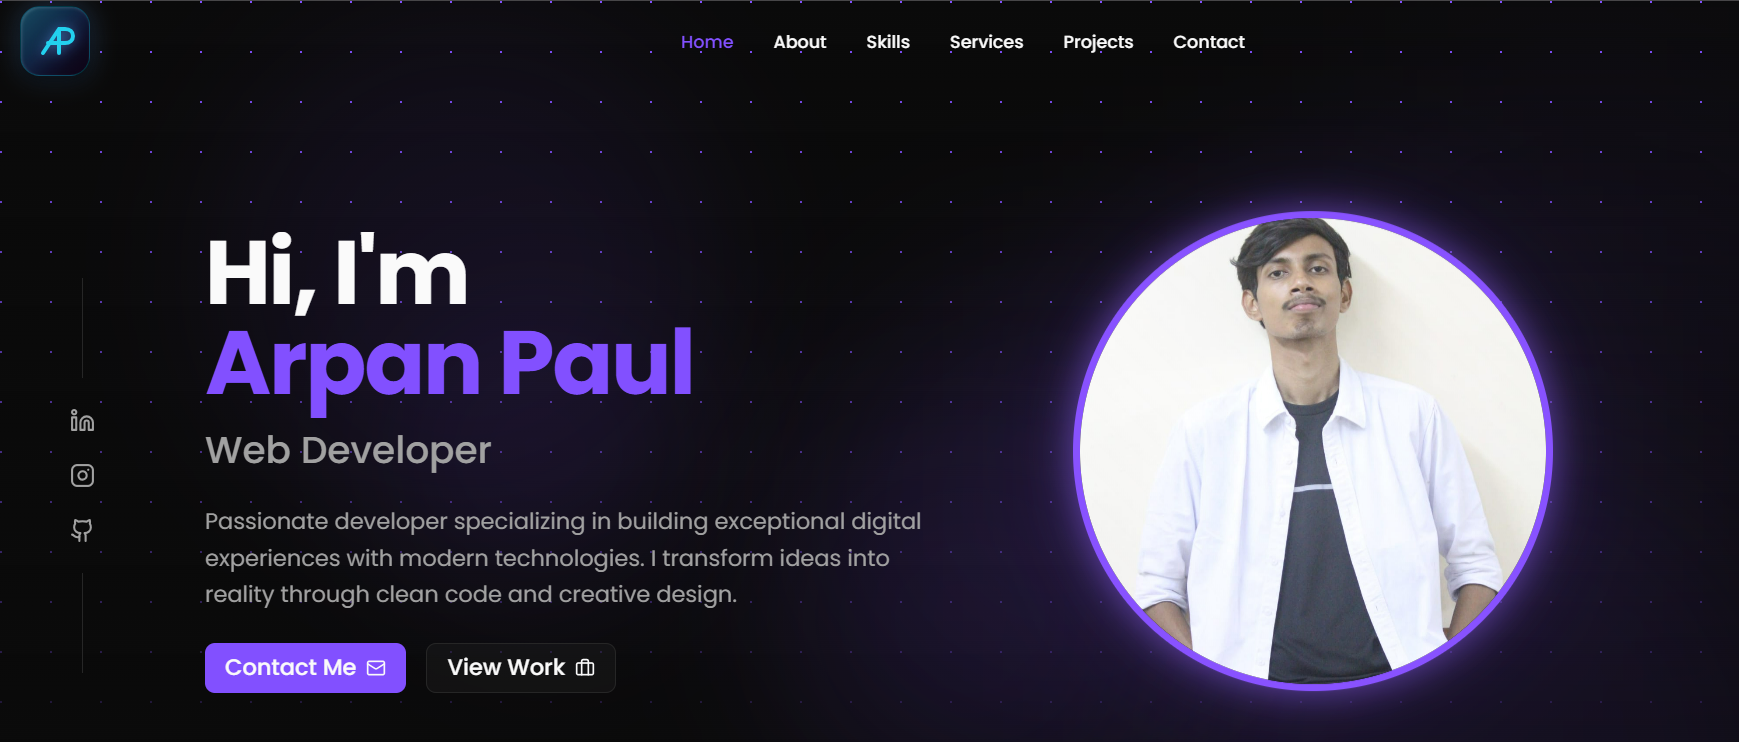
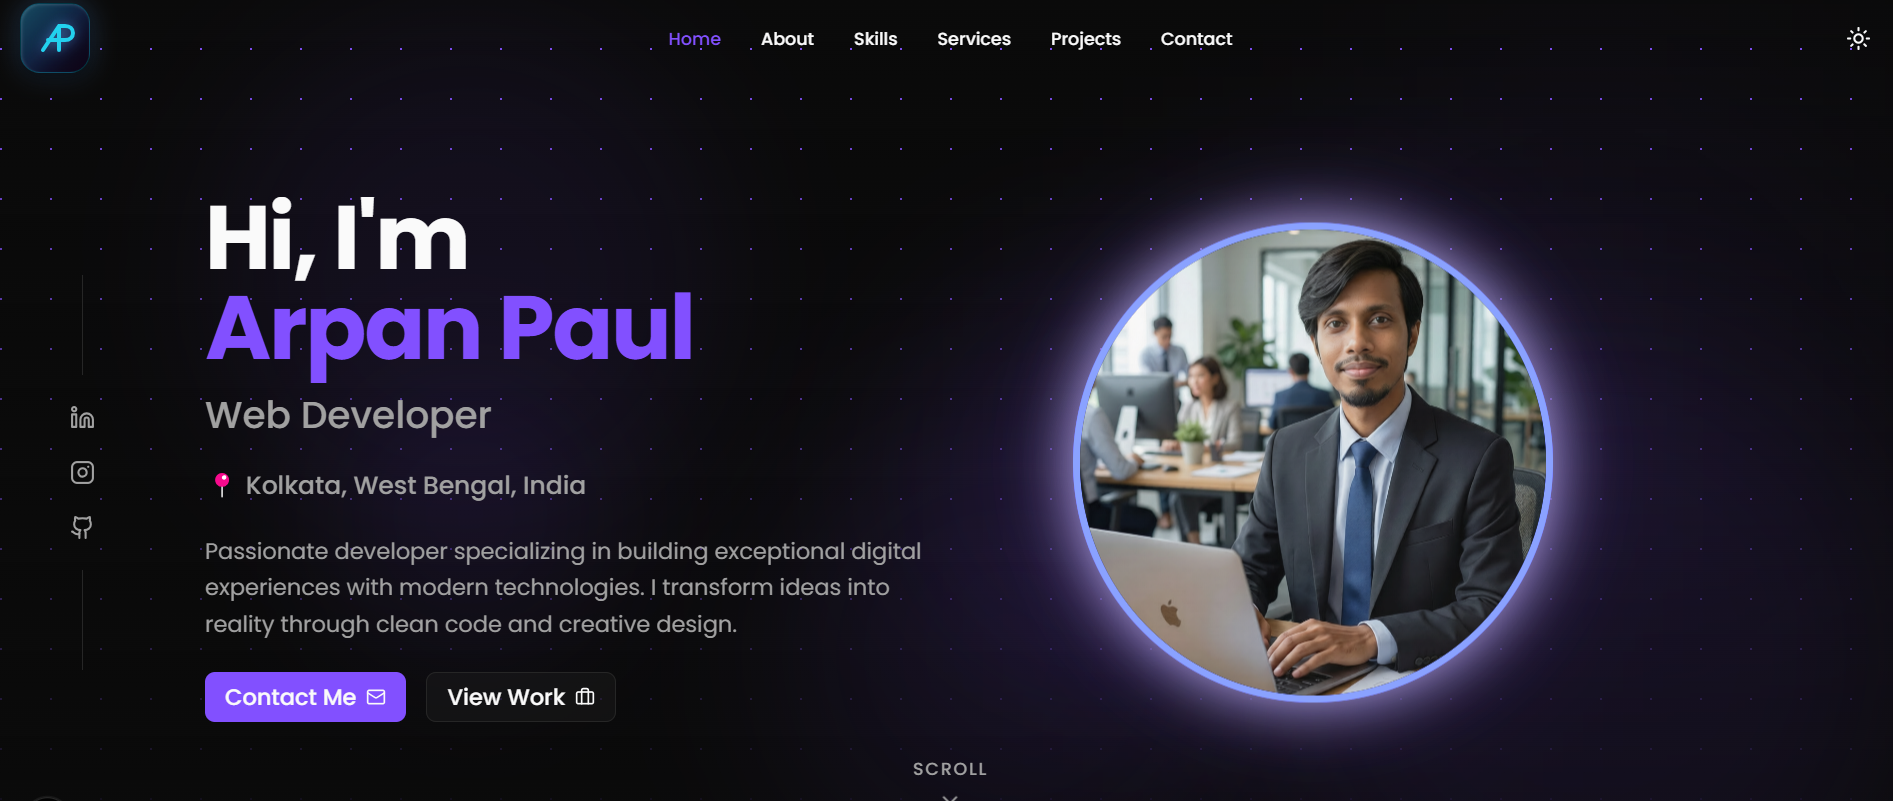
`Updated About component and image files`

diff --git a/components/about.tsx b/components/about.tsx
@@ -38,27 +38,26 @@ export function About() {
 
         <div className="grid md:grid-cols-2 gap-12 items-center max-w-6xl mx-auto">
           <div className="flex justify-center">
-            <div className="relative w-64 h-64 md:w-80 md:h-80 animate-float">
-              {/* Neon glow background */}
+            <div className="relative w-64 md:w-80 aspect-[2/3] animate-float">
+
+              {/* Glow */}
               <div className="absolute inset-0 bg-gradient-to-r from-primary via-primary/50 to-primary rounded-2xl blur-2xl opacity-60 animate-pulse" />
-              
-              {/* Dashing neon border */}
+
+              {/* Border */}
               <div className="absolute inset-0 rounded-2xl border-4 border-dashed animate-border-dash shadow-[0_0_30px_rgba(139,92,246,0.6)]" />
-              
-              {/* Image container with shiny overlay */}
+
+              {/* Image */}
               <div className="relative w-full h-full rounded-2xl overflow-hidden shadow-2xl">
                 <Image
-                  src="Arpan-Paul-about.png"
+                  src="/Arpan-Paul-about.png"
                   alt="About Arpan Paul"
                   fill
                   className="object-cover"
-                  loading="eager"
-                  sizes="(max-width: 768px) 256px, 320px"
-                  quality={85}
+                  priority
                 />
-                {/* Shiny overlay effect */}
                 <div className="absolute inset-0 bg-gradient-to-tr from-transparent via-white/10 to-transparent opacity-40" />
               </div>
+
             </div>
           </div>
 
@@ -81,17 +80,17 @@ export function About() {
 
             <div className="flex flex-row sm:flex-row gap-4 justify-center lg:justify-start items-center sm:items-start">
               {/* Made button smaller and more compact as requested */}
-              <a 
-                href="/Arpan-Paul-Resume.pdf" 
-                download 
+              <a
+                href="/Arpan-Paul-Resume.pdf"
+                download
                 className="inline-flex items-center justify-center gap-2 bg-primary text-primary-foreground hover:bg-primary/90 px-6 py-2.5 rounded-full font-medium transition-all shadow-lg hover:shadow-primary/25 text-sm"
               >
                 <Download className="w-4 h-4" />
                 Download Resume
               </a>
-              
-              <a 
-                href="/Arpan-Paul-Resume.pdf" 
+
+              <a
+                href="/Arpan-Paul-Resume.pdf"
                 target="_blank"
                 className="inline-flex items-center justify-center w-10 h-10 rounded-full border border-input bg-background hover:bg-accent hover:text-accent-foreground transition-colors shadow-sm"
                 title="View Resume"
